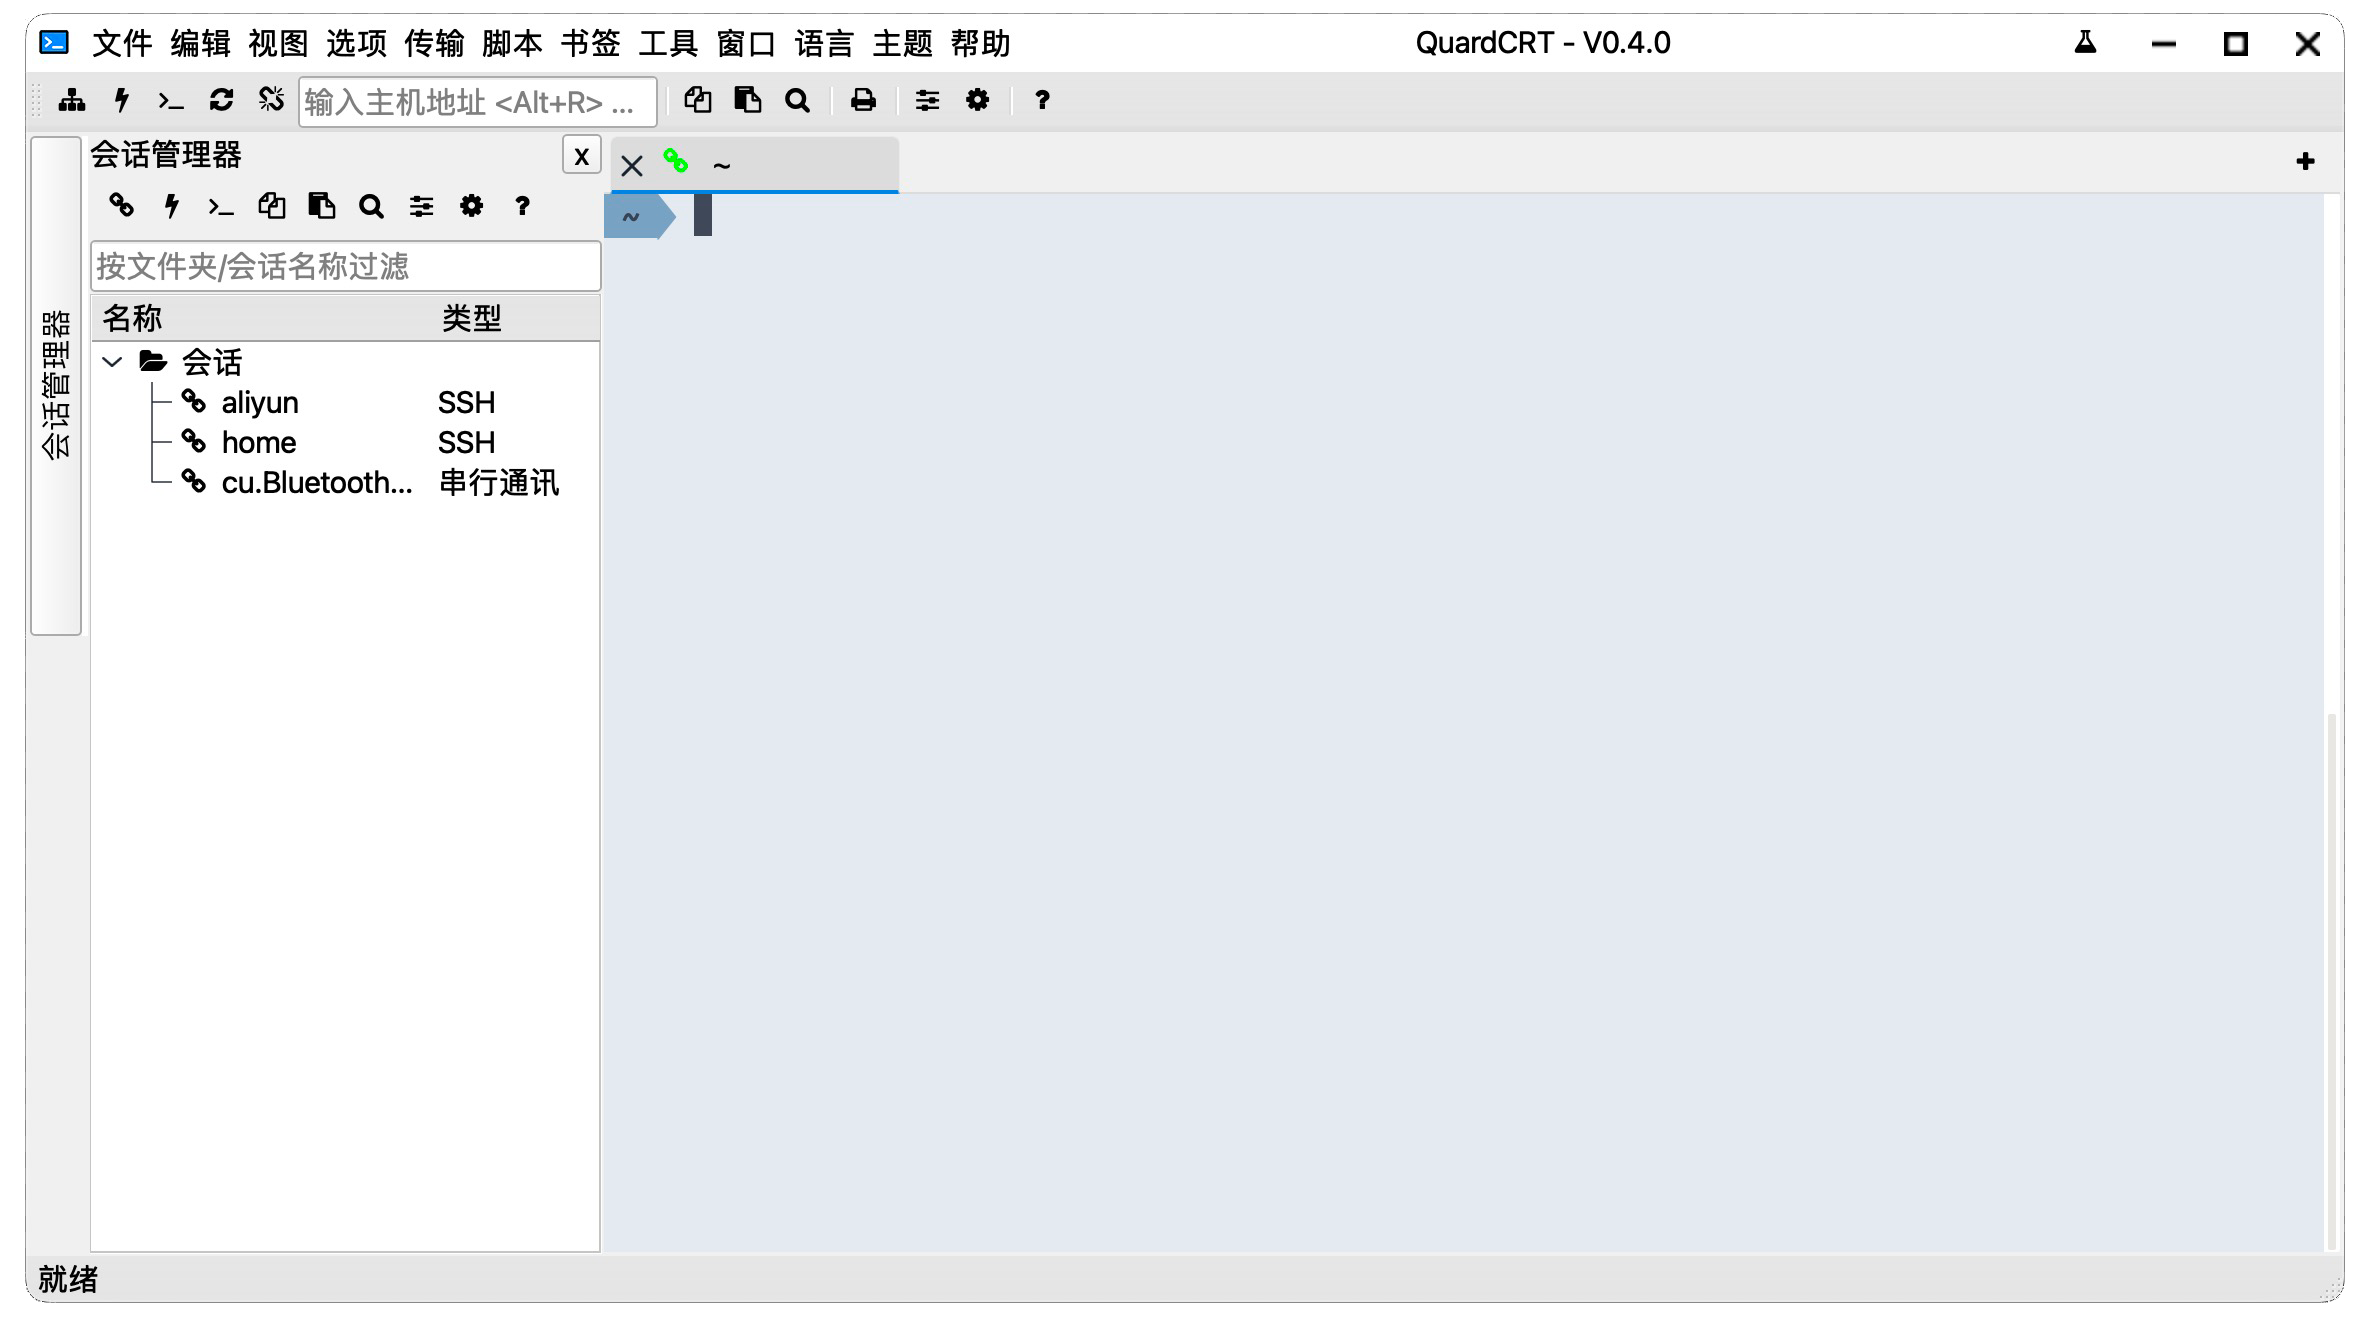
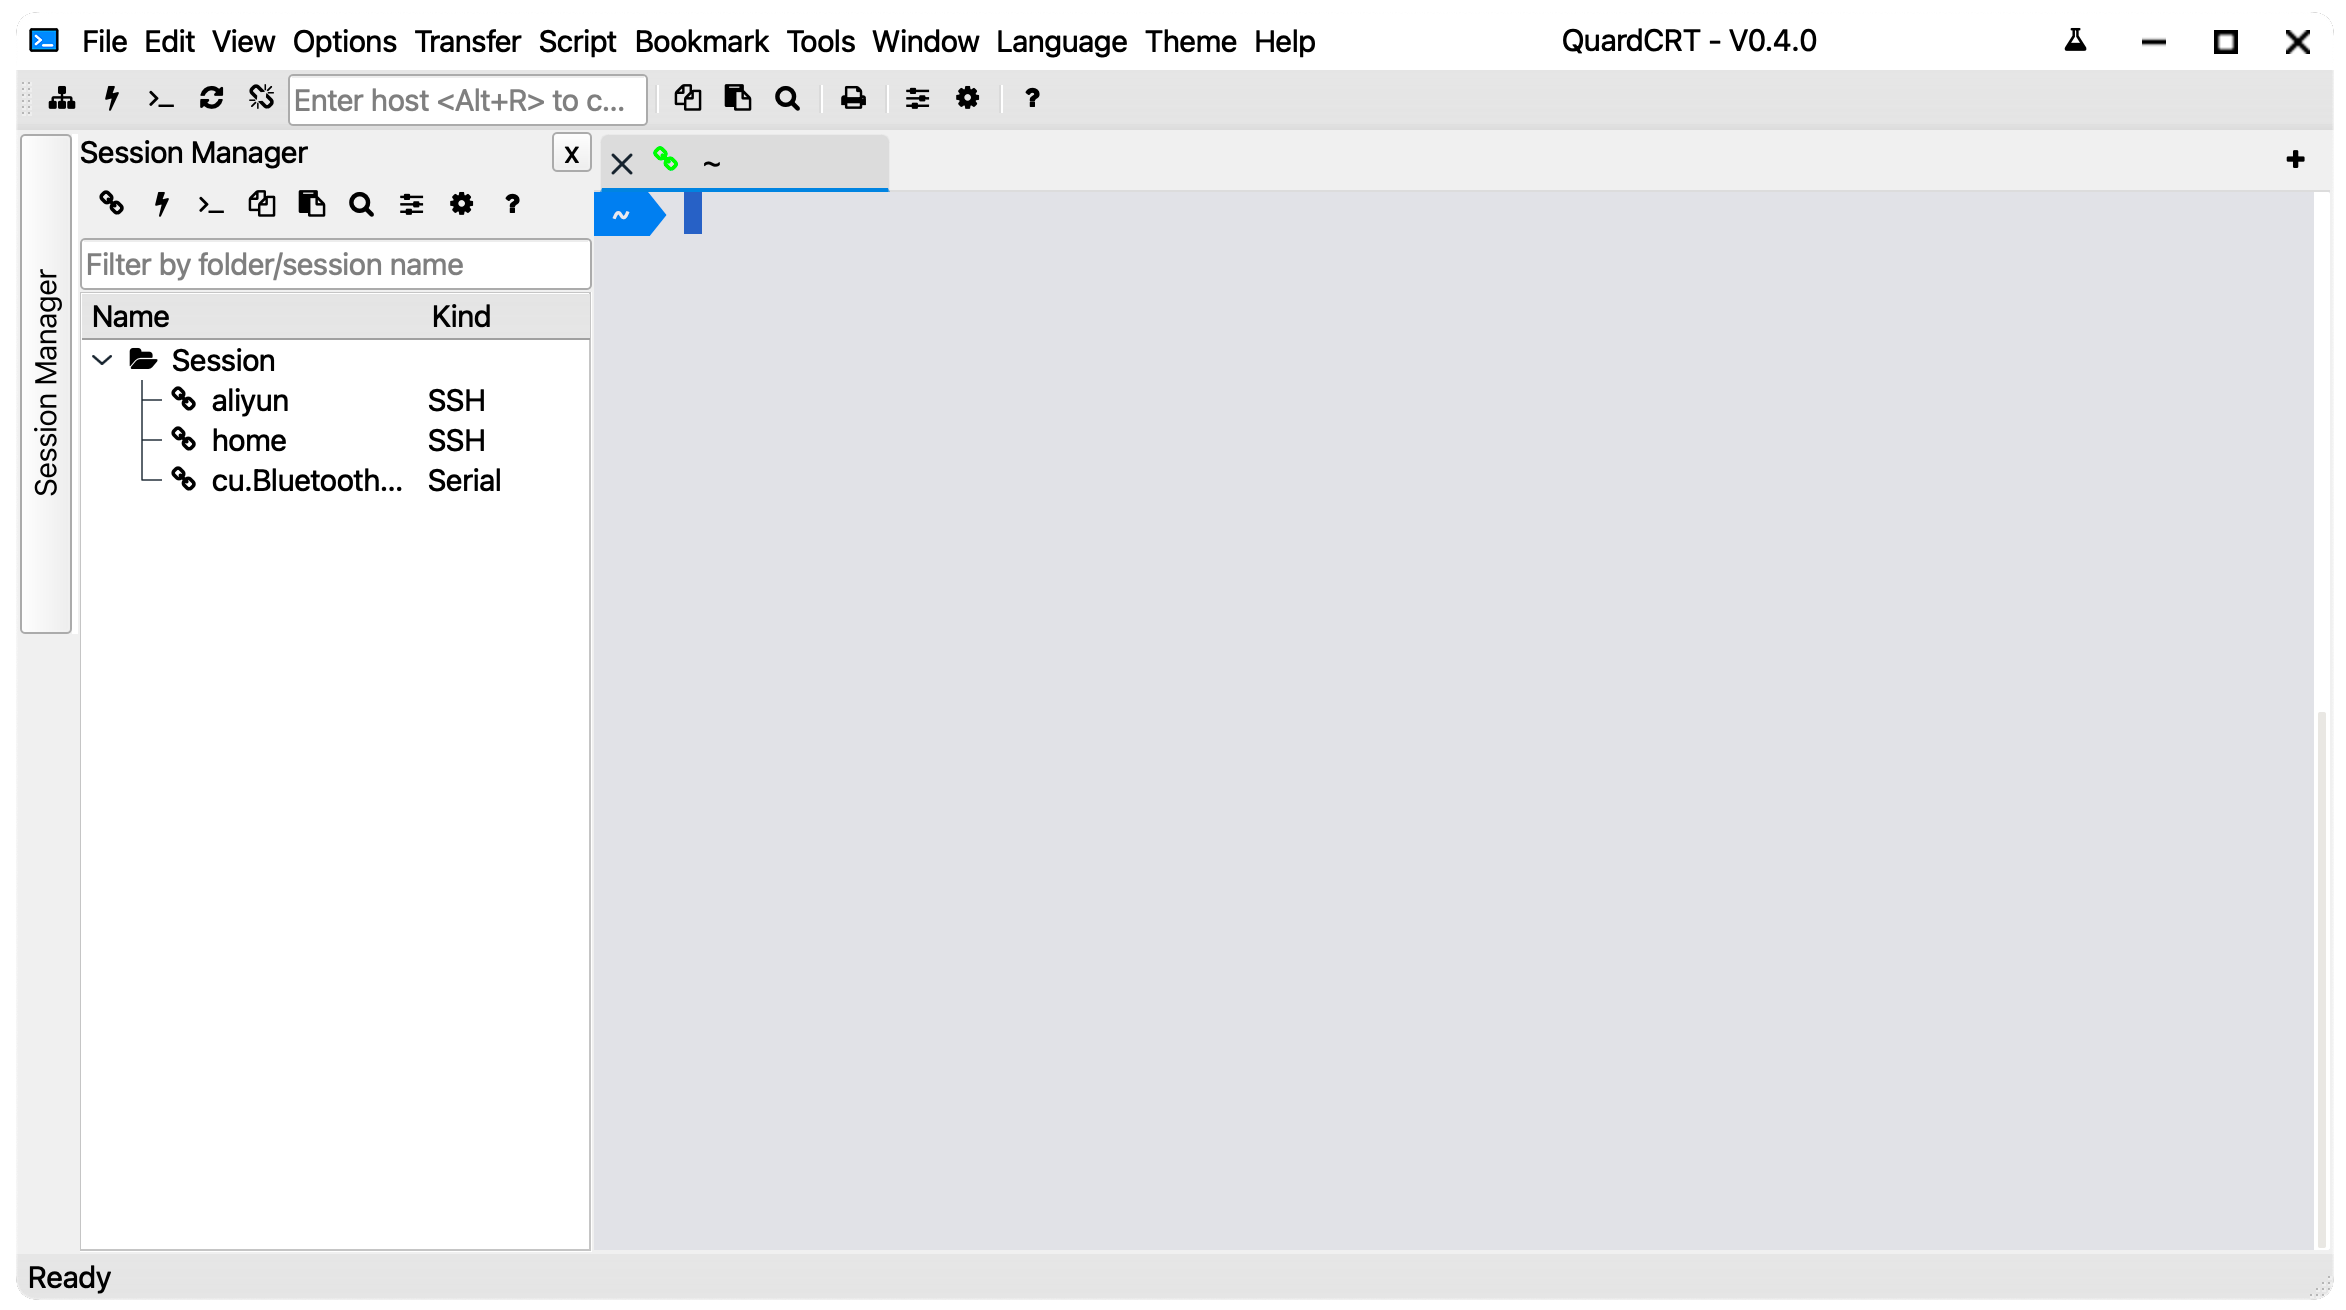
doc:update image for english in readme

diff --git a/README_zh_CN.md b/README_zh_CN.md
@@ -16,23 +16,23 @@
 
 quardCRT一款多功能终端仿真/图形桌面软件，支持多种后端协议，无依赖跨平台使用，windows/linux/mac使用体验完全一致，支持多标签页和历史记录管理等传统终端软件功能，同时支持一些独具特色的细节功能。
 
-| ![img2](./docs/windows.png) |
+| ![img2](./docs/windows_zh_CN.png) |
 | :-------------------------: |
 | Windows                     |
-| ![img1](./docs/macos.png)   |
+| ![img1](./docs/macos_zh_CN.png)   |
 | MacOS                       |
-| ![img3](./docs/linux.png)   |
+| ![img3](./docs/linux_zh_CN.png)   |
 | Linux                       |
 
 亮/暗主题切换：
 
-| ![img4](./docs/dark.png)    | ![img5](./docs/light.png)   |
+| ![img4](./docs/dark_zh_CN.png)    | ![img5](./docs/light_zh_CN.png)   |
 | :-------------------------: | :-------------------------: |
 | 暗主题                      | 亮主题                      |
 
 协议选择界面：
 
-![img](./docs/img.png)
+![img](./docs/img_zh_CN.png)
 
 ## 功能描述
 
